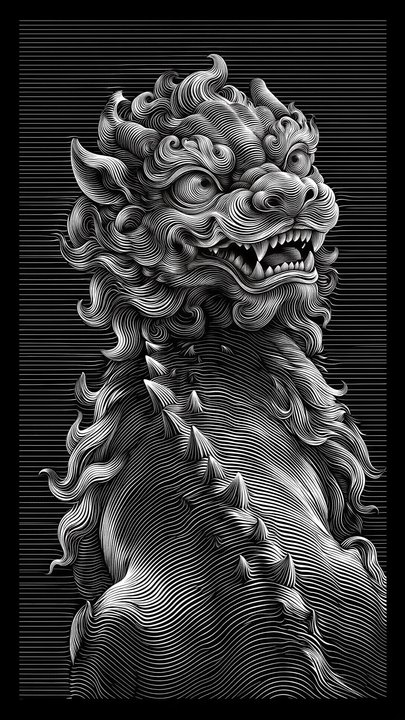
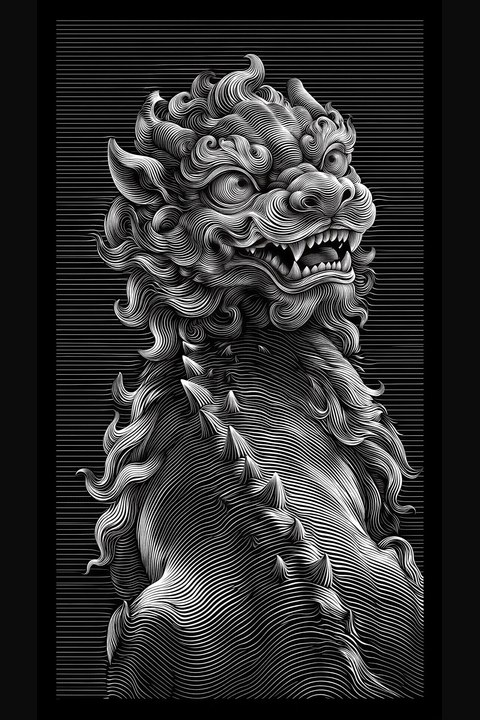
修好介绍页图墙：去掉漏出的表格标签，改成双列预览
GitHub 把缩进的表格标签当成代码，原图又被撑成通栏。改成无表格双列，竖图做成等高卡片。

diff --git a/README.md b/README.md
@@ -19,50 +19,24 @@
 
 ## 成图标本
 
-主页是缩小预览，点图看原图，或打开 [原图页](./gallery/README.md)。
-
-<table>
-  <tr>
-    <td width="50%" align="center" valign="top">
-
-[![F2 留白海报 · 桃花源](./assets/readme/thumbs/sample-04.jpg)](./gallery/sample-04.jpg)
-
-F2 留白海报 · 桃花源
-
-    </td>
-    <td width="50%" align="center" valign="top">
-
-[![F4 治愈插画 · 晚秋](./assets/readme/thumbs/sample-02.jpg)](./gallery/sample-02.jpg)
-
-F4 治愈插画 · 晚秋
-
-    </td>
-  </tr>
-  <tr>
-    <td width="50%" align="center" valign="top">
-
-[![F1 笔意水墨 · 宋代极简山水](./assets/readme/thumbs/sample-03.jpg)](./gallery/sample-03.jpg)
-
-F1 笔意水墨 · 宋代极简山水
-
-    </td>
-    <td width="50%" align="center" valign="top">
-
-[![F2 留白海报 · 欧普线描貔貅](./assets/readme/thumbs/sample-01.jpg)](./gallery/sample-01.jpg)
-
-F2 留白海报 · 欧普线描貔貅
-
-    </td>
-  </tr>
-</table>
+缩小预览，点图看原图。完整作品在 [原图页](./gallery/README.md)。
 
 <p align="center">
-
-[![F8 概念海报 · 踏雪寻仙](./assets/readme/thumbs/sample-06.jpg)](./gallery/sample-06.jpg)
-
-F8 概念海报 · 踏雪寻仙
-
+<a href="./gallery/sample-04.jpg"><img src="./assets/readme/thumbs/sample-04.jpg" width="48%" alt="F2 留白海报 · 桃花源"></a>
+<a href="./gallery/sample-02.jpg"><img src="./assets/readme/thumbs/sample-02.jpg" width="48%" alt="F4 治愈插画 · 晚秋"></a>
 </p>
+<p align="center">F2 桃花源　·　F4 晚秋</p>
+
+<p align="center">
+<a href="./gallery/sample-03.jpg"><img src="./assets/readme/thumbs/sample-03.jpg" width="48%" alt="F1 宋代极简山水"></a>
+<a href="./gallery/sample-01.jpg"><img src="./assets/readme/thumbs/sample-01.jpg" width="48%" alt="F2 欧普线描貔貅"></a>
+</p>
+<p align="center">F1 宋代极简山水　·　F2 欧普线描貔貅</p>
+
+<p align="center">
+<a href="./gallery/sample-06.jpg"><img src="./assets/readme/thumbs/sample-06.jpg" width="62%" alt="F8 概念海报 · 踏雪寻仙"></a>
+</p>
+<p align="center">F8 概念海报 · 踏雪寻仙</p>
 
 <p align="center"><a href="./gallery/README.md">看完整原图 →</a></p>
 
